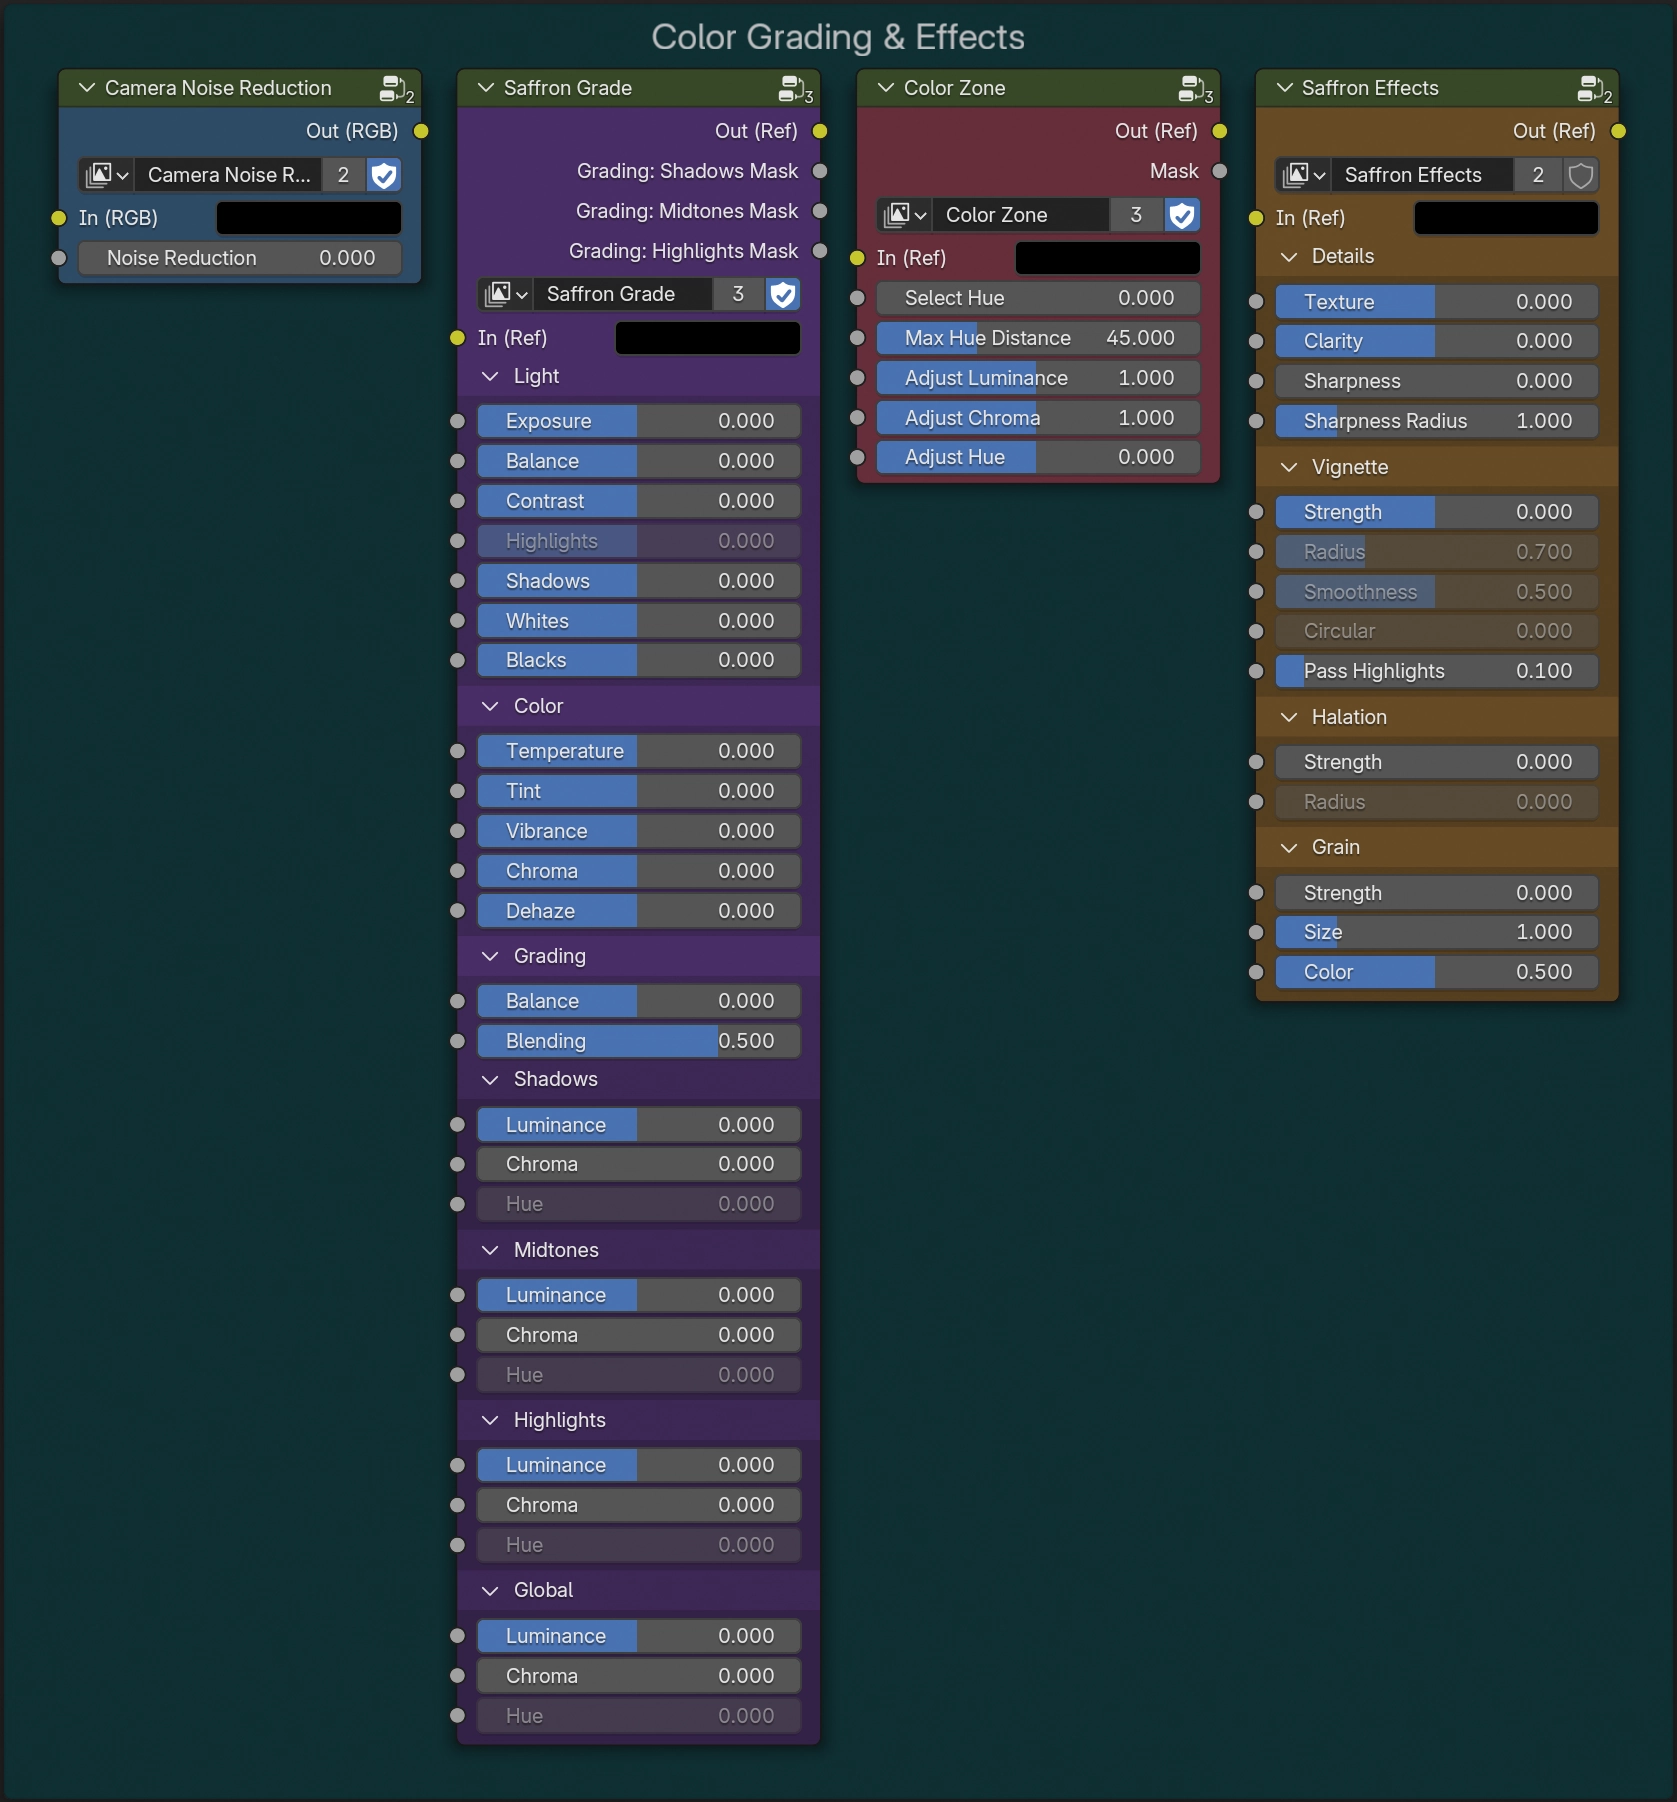
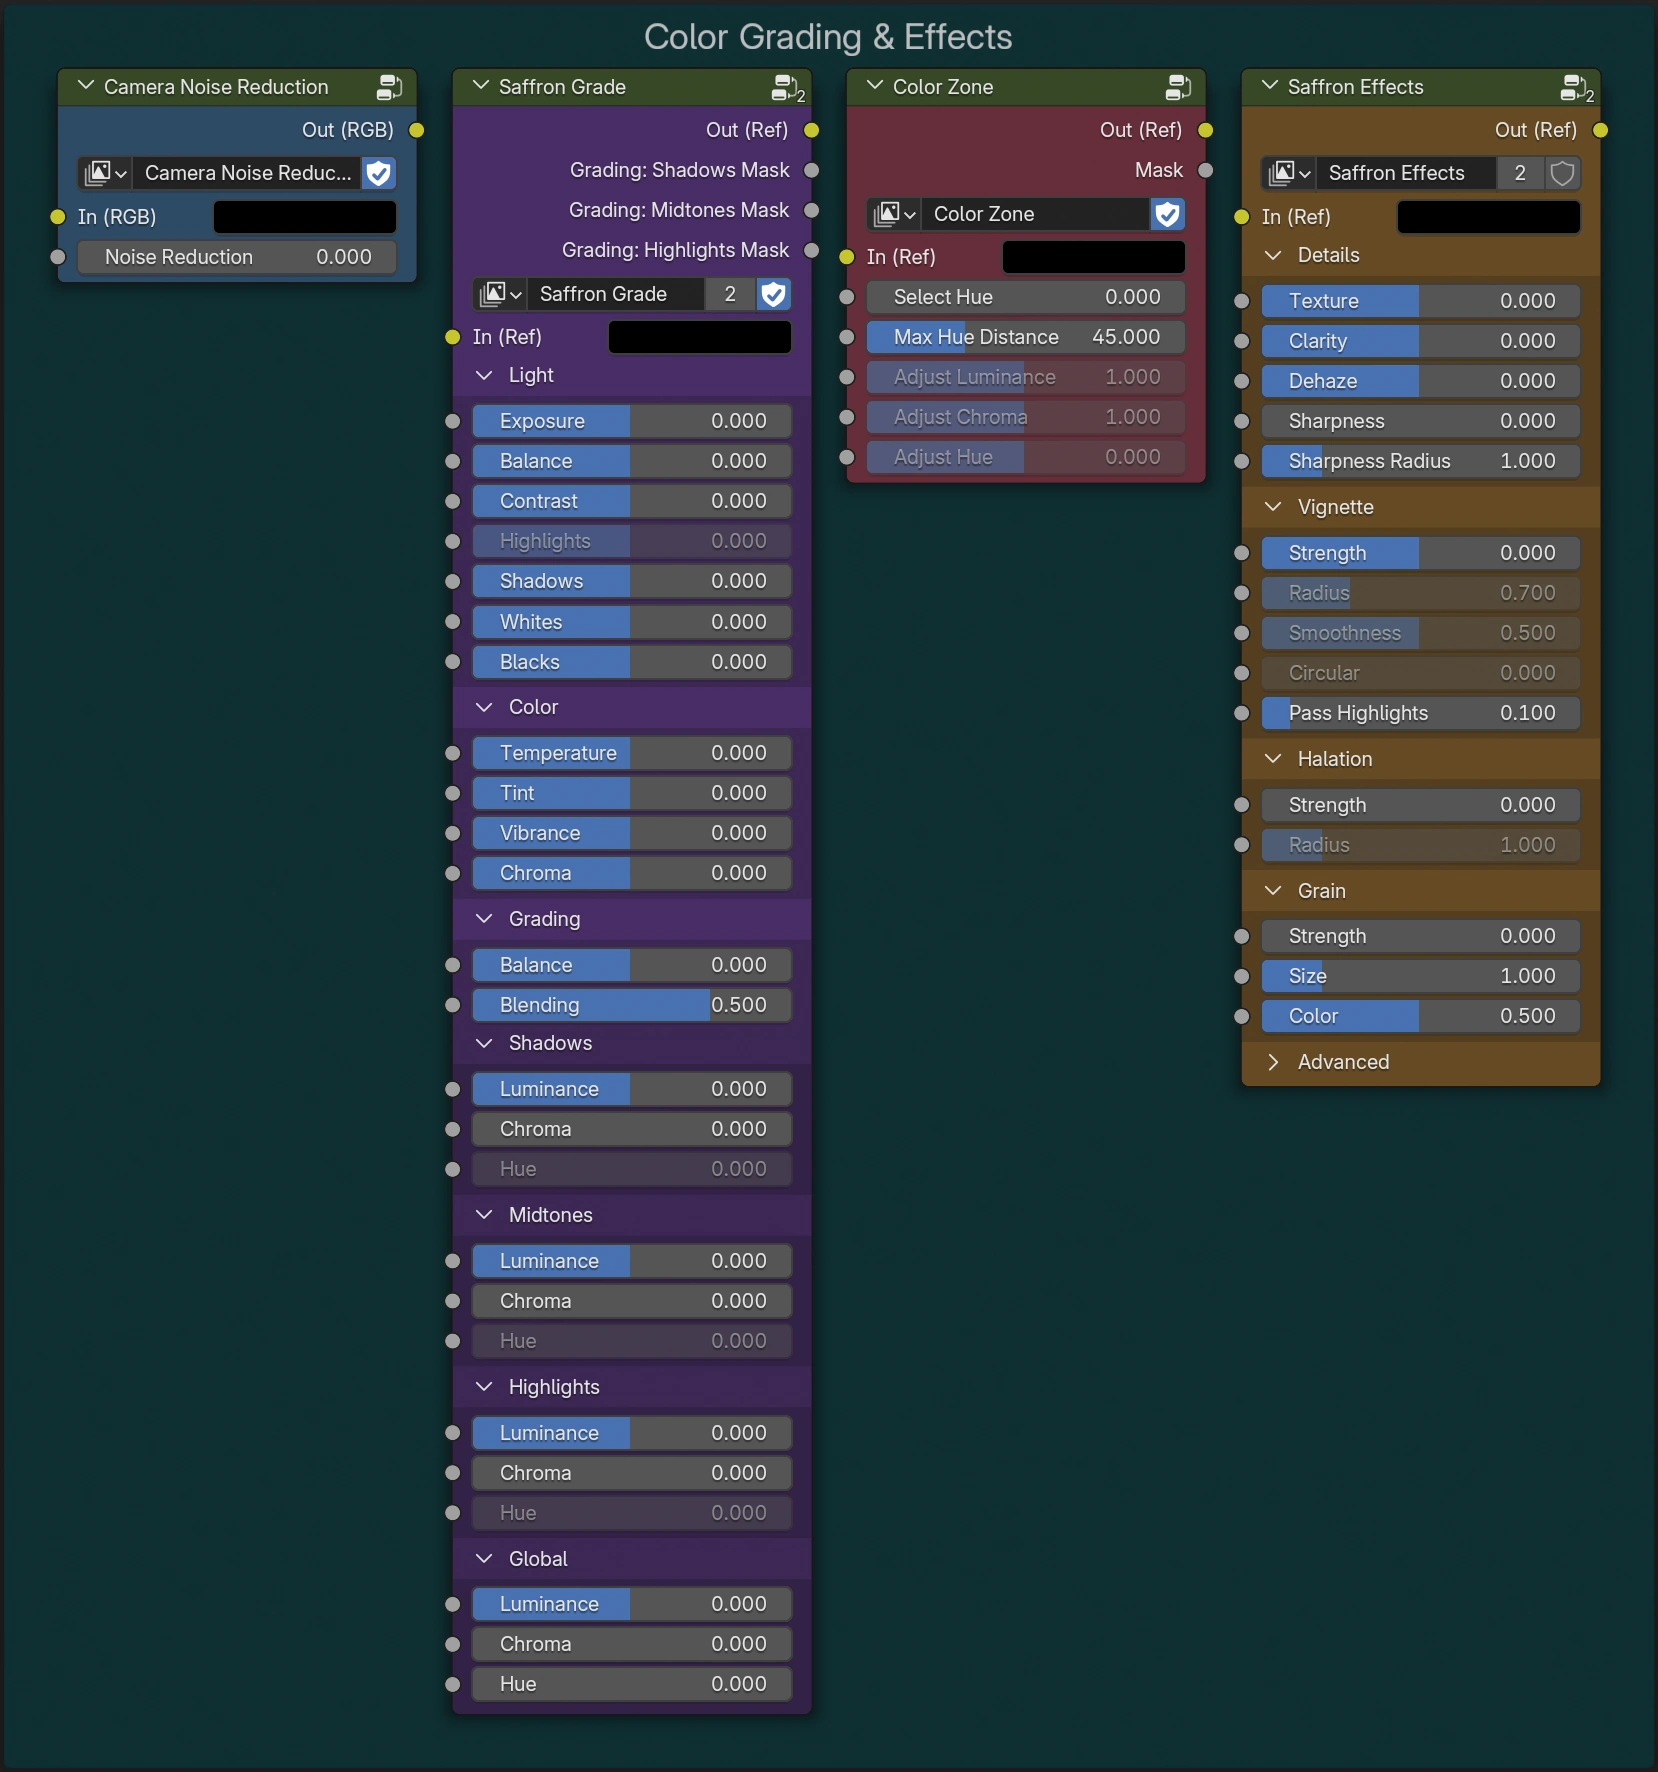
updated images

diff --git a/README.md b/README.md
@@ -62,7 +62,7 @@ and highlights individually.
 
 ![screenshot](./images/saffron-grade-before.webp)
 ![screenshot](./images/saffron-grade-after.webp)
-![screenshot](./images/saffron-grade.png)
+![screenshot](./images/saffron-grade.webp)
 
 ## Color Zone
 
@@ -76,9 +76,9 @@ to select the sky) and adjust the tone of that part.
 ## Saffron Effects
 
 This node provides artistic image editing effects including
-**Texture & Clarity**, **Vignette**, **Halation**, and **Film Grain**. It too
-uses [Oklab](https://bottosson.github.io/posts/oklab/) as its processing space
-and is made of custom algorithms.
+**Texture & Clarity**, **Dehaze**, **Vignette**, **Halation**, and
+**Film Grain**. It too uses [Oklab](https://bottosson.github.io/posts/oklab/) as
+its processing space and is made of custom algorithms.
 
 ![screenshot](./images/saffron-effects-before.webp)
 ![screenshot](./images/saffron-effects-after.webp)
